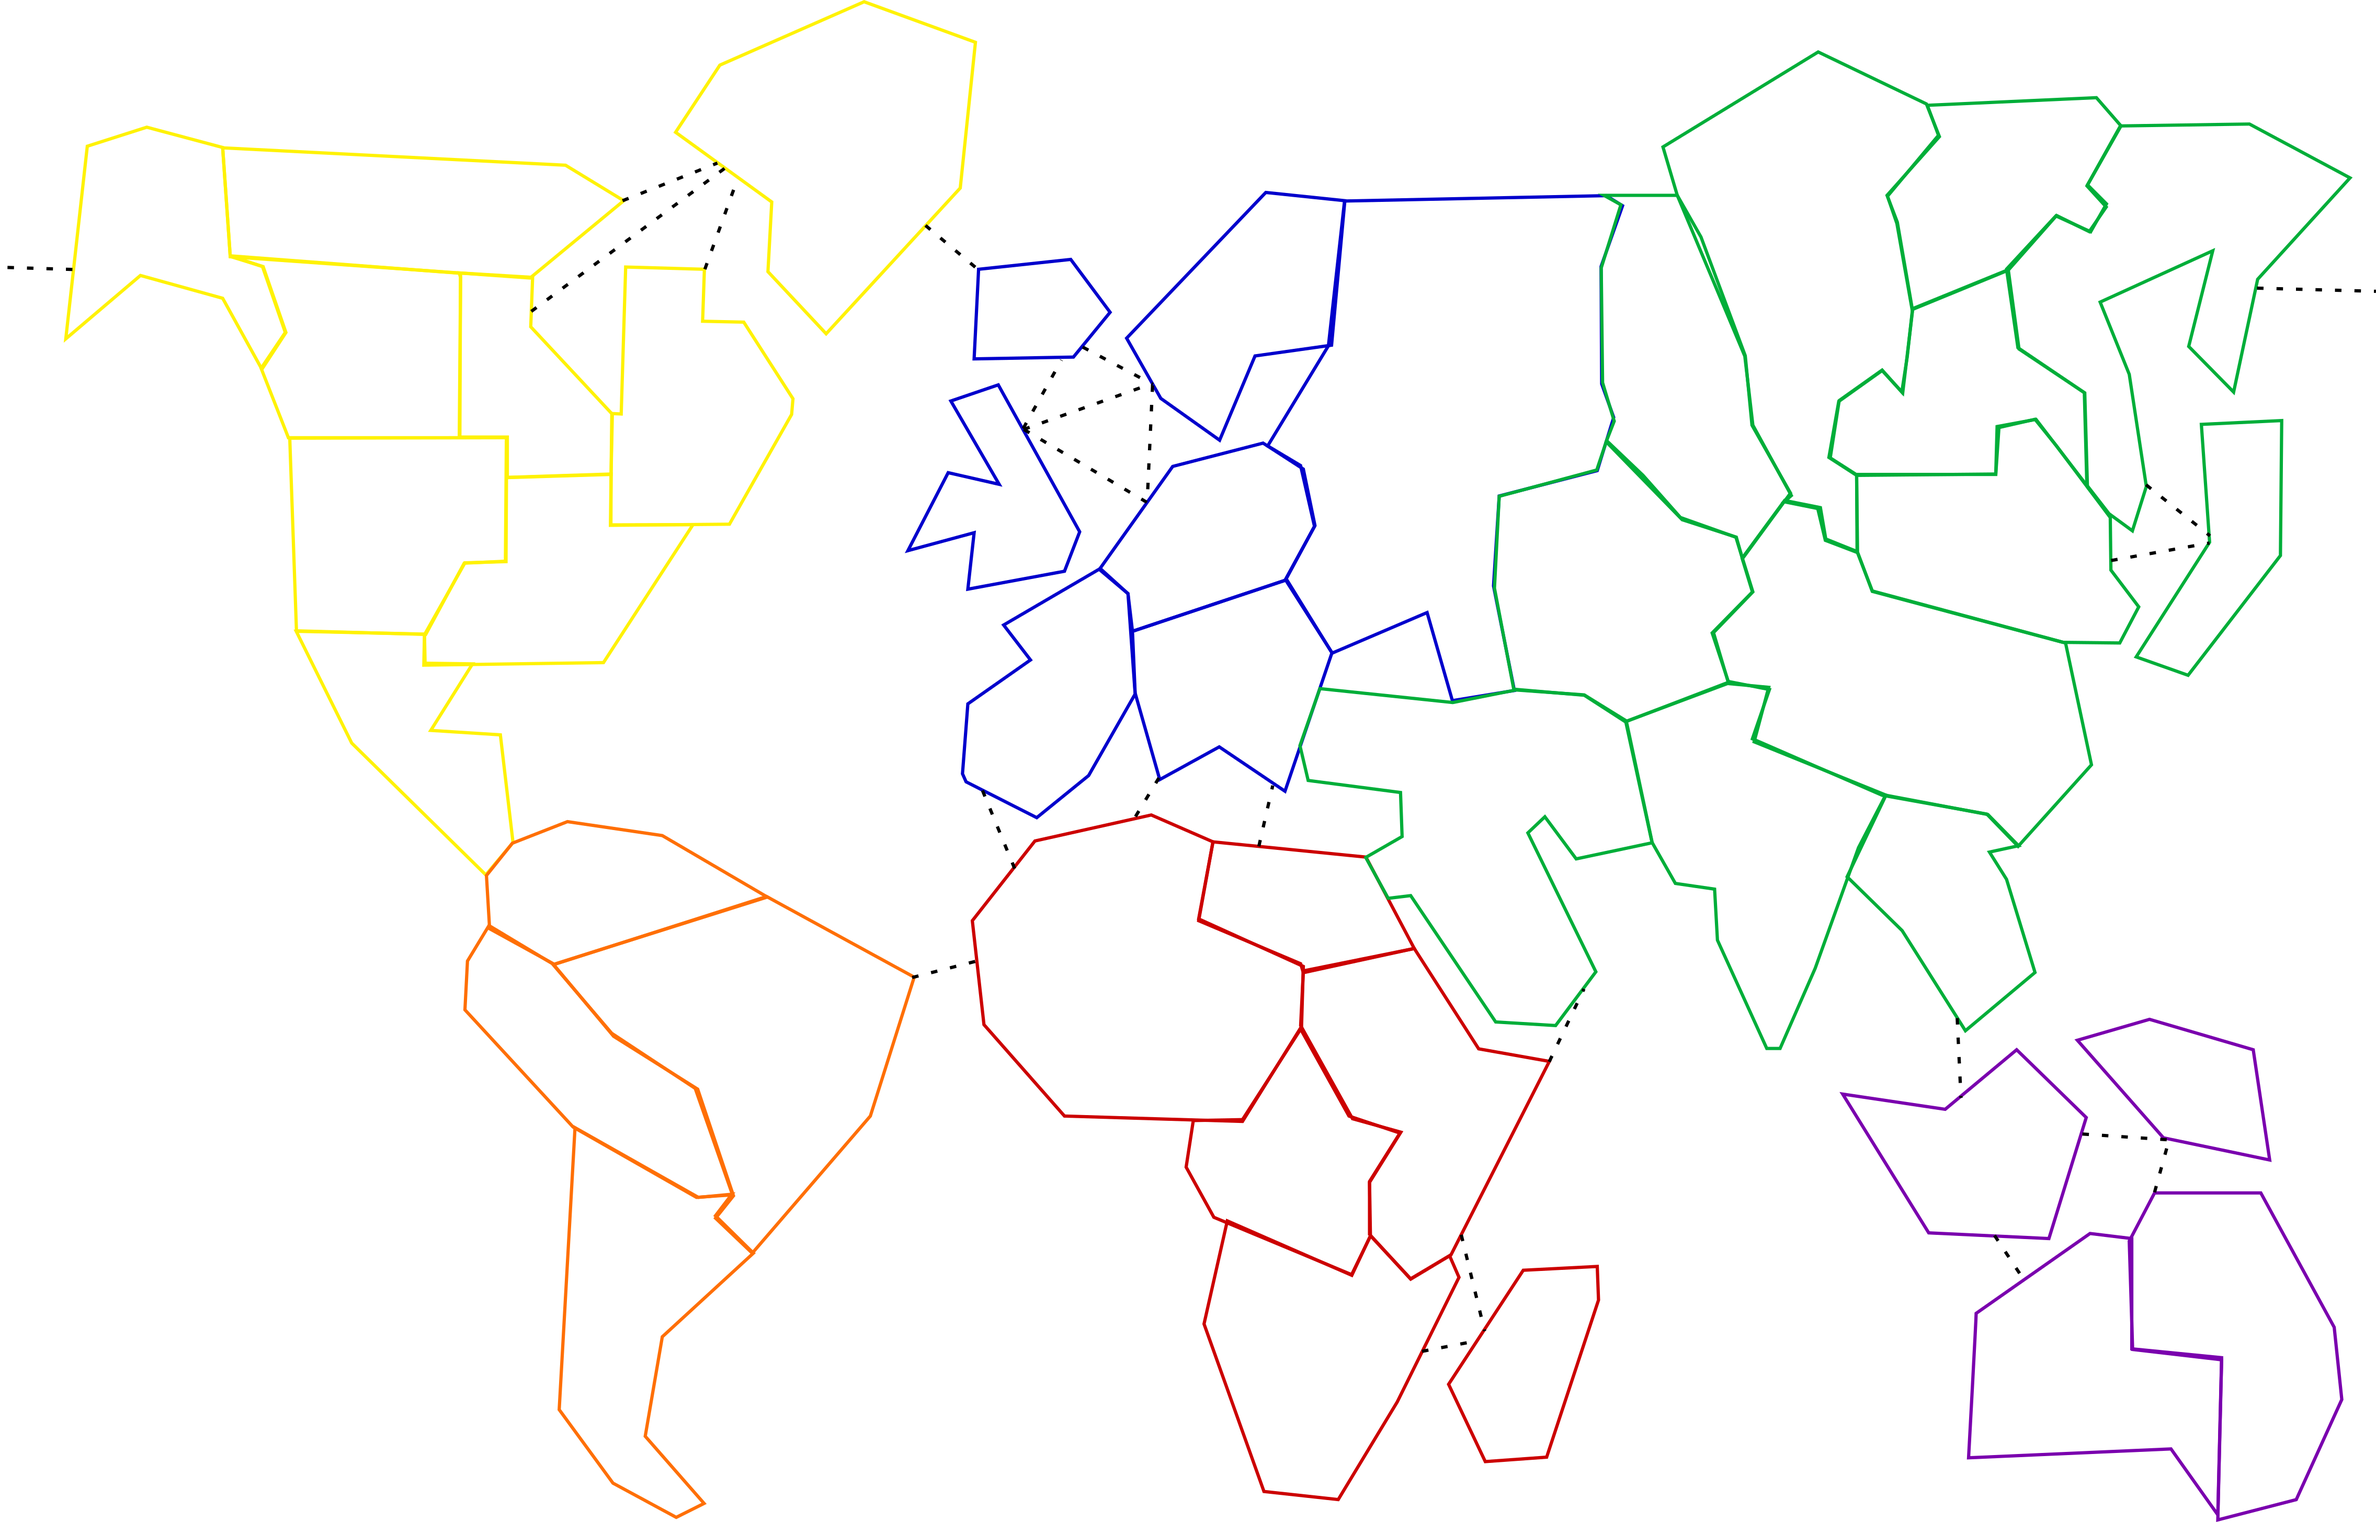
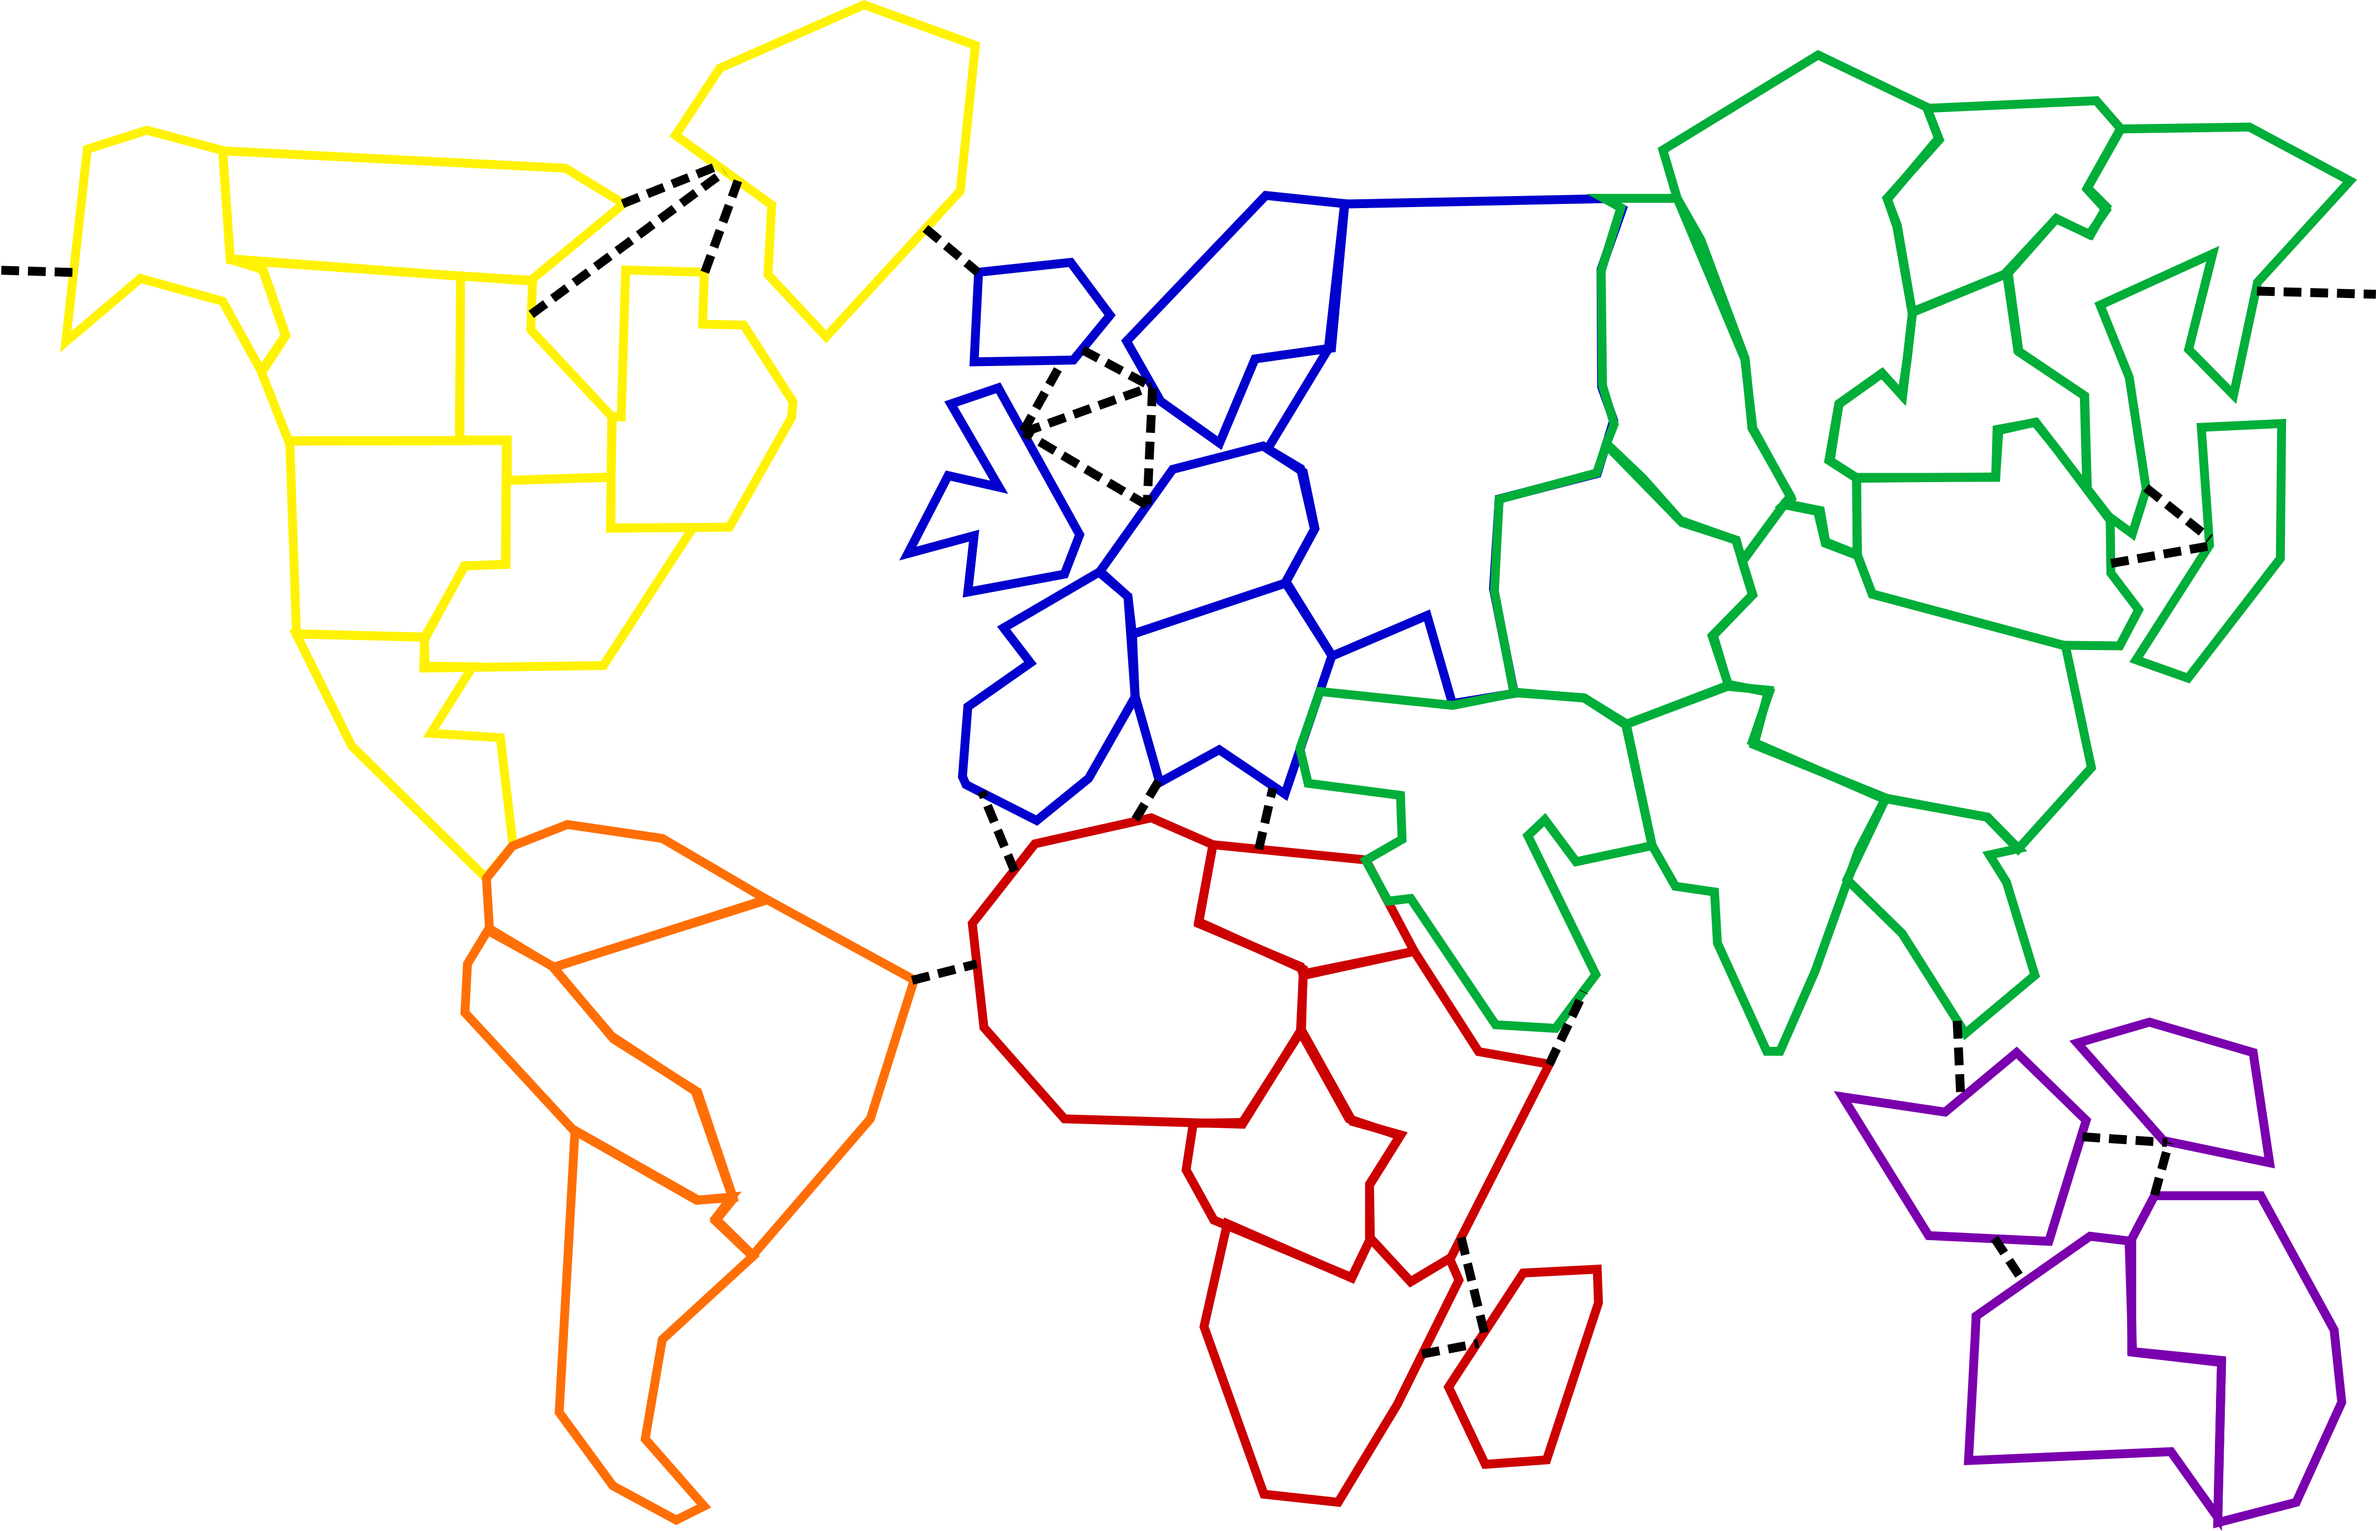
new image but replay gui architecture must be reworked

diff --git a/src/RiskEngine.Replay/GUI/Renderer/TopBarRenderer.cs b/src/RiskEngine.Replay/GUI/Renderer/TopBarRenderer.cs
@@ -6,32 +6,28 @@ namespace RiskEngine.Replay.GUI.Renderer;
 
 public sealed class TopBarRenderer
 {
-    private const int Height = 80;
-    private const int TextY = 30;
+    private const int FontSize = 20;
+
+    private const int ButtonWidth = 120;
+    private const int ButtonHeight = 40;
+    private const int ButtonSpacing = 20;
 
     private readonly Button _previousButton;
     private readonly Button _nextButton;
     private readonly Button _modeButton;
-    
-    public NavigationMode CurrentMode => _mode;
-    
+
     private NavigationMode _mode = NavigationMode.Event;
+
+    public NavigationMode CurrentMode => _mode;
 
     public TopBarRenderer()
     {
-        _modeButton = new Button(
-            new Rectangle(850, 20, 120, 40),
-            CurrentMode.ToString());
-
-        _previousButton = new Button(
-            new Rectangle(1000, 20, 120, 40),
-            "Previous");
-
-        _nextButton = new Button(
-            new Rectangle(1140, 20, 120, 40),
-            "Next");
+        // Position wird später durch das Layout gesetzt
+        _modeButton = new Button(new Rectangle(), _mode.ToString());
+        _previousButton = new Button(new Rectangle(), "Previous");
+        _nextButton = new Button(new Rectangle(), "Next");
     }
-    
+
     private void ChangeMode()
     {
         _mode = _mode switch
@@ -45,8 +41,7 @@ public sealed class TopBarRenderer
 
         _modeButton.Text = _mode.ToString();
     }
-    
-    
+
     public TopBarAction Update()
     {
         if (_modeButton.IsClicked())
@@ -56,39 +51,87 @@ public sealed class TopBarRenderer
         }
 
         if (_previousButton.IsClicked())
-        {
             return TopBarAction.Previous;
-        }
 
         if (_nextButton.IsClicked())
-        {
             return TopBarAction.Next;
-        }
 
         return TopBarAction.None;
     }
 
-    public void Draw(ReplayHeader header, ReplayFrame frame, int frameIndex, int frameCount)
+    public void Draw(
+        Rectangle area,
+        ReplayHeader header,
+        ReplayFrame frame,
+        int frameIndex,
+        int frameCount)
     {
-        // Background
-        Rectangle topBar = new Rectangle(0, 0, Raylib.GetScreenWidth(), Height);
+        // Hintergrund
+        Raylib.DrawRectangleRec(area, Color.DarkGray);
+        Raylib.DrawRectangleLinesEx(area, 2, Color.Black);
 
-        Raylib.DrawRectangleRec(topBar, Color.DarkGray);
+        float right = area.X + area.Width;
+        float centerY = area.Y + area.Height / 2f;
 
-        Raylib.DrawRectangleLinesEx(topBar, 2, Color.Black);
+        int textY = (int)(centerY - FontSize / 2f);
+        float buttonY = centerY - ButtonHeight / 2f;
 
-        // Metadata
-        Raylib.DrawText($"Seed: {header.Seed}", 20, TextY, 20, Color.White);
+        // Metadaten
+        Raylib.DrawText(
+            $"Seed: {header.Seed}",
+            (int)area.X + 20,
+            textY,
+            FontSize,
+            Color.White);
 
-        Raylib.DrawText($"Frame: {frameIndex}/{frameCount}", 180, TextY, 20, Color.White);
+        Raylib.DrawText(
+            $"Frame: {frameIndex}/{frameCount}",
+            (int)area.X + 180,
+            textY,
+            FontSize,
+            Color.White);
 
-        Raylib.DrawText($"Round: {frame.State.CurrentRound}", 380, TextY, 20, Color.White);
+        Raylib.DrawText(
+            $"Round: {frame.State.CurrentRound}",
+            (int)area.X + 380,
+            textY,
+            FontSize,
+            Color.White);
 
-        Raylib.DrawText($"Player: {frame.State.PlayerTurn + 1}", 520, TextY, 20, Color.White);
+        Raylib.DrawText(
+            $"Player: {frame.State.PlayerTurn + 1}",
+            (int)area.X + 520,
+            textY,
+            FontSize,
+            Color.White);
 
-        Raylib.DrawText($"Phase: {frame.State.CurrentPhase}", 650, TextY, 20, Color.White);
+        Raylib.DrawText(
+            $"Phase: {frame.State.CurrentPhase}",
+            (int)area.X + 650,
+            textY,
+            FontSize,
+            Color.White);
 
-        // Buttons
+        // Buttons relativ zum Layout positionieren
+        _modeButton.Bounds = new Rectangle(
+            right - 3 * ButtonWidth - 2 * ButtonSpacing,
+            buttonY,
+            ButtonWidth,
+            ButtonHeight);
+
+        _previousButton.Bounds = new Rectangle(
+            right - 2 * ButtonWidth - ButtonSpacing,
+            buttonY,
+            ButtonWidth,
+            ButtonHeight);
+
+        _nextButton.Bounds = new Rectangle(
+            right - ButtonWidth,
+            buttonY,
+            ButtonWidth,
+            ButtonHeight);
+
+        // Zeichnen
         _modeButton.Draw();
         _previousButton.Draw();
         _nextButton.Draw();

diff --git a/src/RiskEngine.Replay/GUI/ReplayViewer.cs b/src/RiskEngine.Replay/GUI/ReplayViewer.cs
@@ -1,13 +1,14 @@
 using Raylib_cs;
+using RiskEngine.Replay;
+using RiskEngine.Replay.GUI;
 using RiskEngine.Replay.GUI.Renderer;
-
-namespace RiskEngine.Replay.GUI;
 
 public sealed class ReplayViewer
 {
     private readonly ReplayPlayer _player;
     private readonly ReplayRenderer _renderer;
-    private NavigationMode _navigationMode = NavigationMode.Event;
+
+    private ReplayLayout _layout;
 
     public ReplayViewer(Replay replay)
     {
@@ -32,10 +33,23 @@ public sealed class ReplayViewer
     {
         Raylib.InitWindow(1600, 900, "Risk Replay Viewer");
         Raylib.SetTargetFPS(60);
+
+        _layout = ReplayLayoutBuilder.Create();
+
+        _renderer.Initialize();
+    }
+
+    private void Shutdown()
+    {
+        _renderer.Shutdown();
+        Raylib.CloseWindow();
     }
 
     private void Update()
     {
+        // Falls später Fenstergröße geändert werden kann
+        _layout = ReplayLayoutBuilder.Create();
+
         TopBarAction action = _renderer.Update();
 
         switch (action)
@@ -49,13 +63,24 @@ public sealed class ReplayViewer
                 break;
         }
     }
-    private void ExecuteNext()
+
+    private void Draw()
     {
-        switch (_renderer.CurrentMode)
-        {
-            case NavigationMode.Event:
-                _player.NextEvent();
-                break;
+        Raylib.BeginDrawing();
+
+        Raylib.ClearBackground(Color.DarkGray);
+
+        _renderer.Draw(
+            _layout,
+            _player._replay.Header,
+            _player.CurrentFrame,
+            _player.CurrentFrameIndex,
+            _player.FrameCount);
+
+        Raylib.EndDrawing();
+    }
+
+    private void ExecuteNext(){switch (_renderer.CurrentMode){case NavigationMode.Event:_player.NextEvent();break;
 
             case NavigationMode.Phase:
                 _player.NextPhase();
@@ -90,21 +115,5 @@ public sealed class ReplayViewer
                 _player.PreviousRound();
                 break;
         }
-    }
-
-    private void Draw()
-    {
-        Raylib.BeginDrawing();
-
-        Raylib.ClearBackground(Color.DarkGray);
-
-        _renderer.Draw(_player._replay.Header, _player.CurrentFrame, _player.CurrentFrameIndex, _player.FrameCount);
-
-        Raylib.EndDrawing();
-    }
-
-    private void Shutdown()
-    {
-        Raylib.CloseWindow();
     }
 }

diff --git a/src/RiskEngine.Replay/GUI/Renderer/MapRenderer.cs b/src/RiskEngine.Replay/GUI/Renderer/MapRenderer.cs
@@ -1,6 +1,44 @@
-namespace RiskEngine.Replay.GUI.Renderer;
+using System.Numerics;
+using Raylib_cs;
+using RiskEngine.Replay;
 
-public class MapRenderer
+public sealed class MapRenderer
 {
-    
+    private const float MapScale = 0.28f;
+
+    private const int BackgroundPadding = 20;
+    private const int BorderThickness = 2;
+
+    private Texture2D _mapTexture;
+
+    public void Initialize()
+    {
+        _mapTexture = Raylib.LoadTexture("Assets/risk_map_image.png");
+    }
+
+    public void Draw(ReplayFrame frame, Rectangle area)
+    {
+        float mapWidth = _mapTexture.Width * MapScale;
+        float mapHeight = _mapTexture.Height * MapScale;
+
+        // Karte innerhalb des zugewiesenen Bereichs zentrieren
+        float x = area.X + (area.Width - mapWidth) / 2f;
+        float y = area.Y + (area.Height - mapHeight) / 2f;
+
+        Rectangle background = new Rectangle(
+            x - BackgroundPadding,
+            y - BackgroundPadding,
+            mapWidth + BackgroundPadding * 2,
+            mapHeight + BackgroundPadding * 2);
+
+        Raylib.DrawRectangleRec(background, Color.White);
+        Raylib.DrawRectangleLinesEx(background, BorderThickness, Color.Black);
+
+        Raylib.DrawTextureEx(_mapTexture, new Vector2(x, y), 0f, MapScale, Color.White);
+    }
+
+    public void Shutdown()
+    {
+        Raylib.UnloadTexture(_mapTexture);
+    }
 }

diff --git a/src/RiskEngine.Replay/GUI/Renderer/ReplayRenderer.cs b/src/RiskEngine.Replay/GUI/Renderer/ReplayRenderer.cs
@@ -8,21 +8,31 @@ public sealed class ReplayRenderer
     private readonly MapRenderer _map;
 
     public NavigationMode CurrentMode => _topBar.CurrentMode;
-    
+
     public ReplayRenderer()
     {
         _topBar = new TopBarRenderer();
         _map = new MapRenderer();
     }
 
+    public void Initialize()
+    {
+        _map.Initialize();
+    }
+
     public TopBarAction Update()
     {
         return _topBar.Update();
     }
-    
-    public void Draw(ReplayHeader header, ReplayFrame frame, int frameIndex, int frameCount)
+
+    public void Draw(ReplayLayout layout, ReplayHeader header, ReplayFrame frame, int frameIndex, int frameCount)
     {
-        _topBar.Draw(header, frame, frameIndex, frameCount);
-        
+        _topBar.Draw(layout.TopBar, header, frame, frameIndex, frameCount);
+        _map.Draw(frame, layout.Map);
+    }
+
+    public void Shutdown()
+    {
+        _map.Shutdown();
     }
 }

diff --git a/src/RiskEngine.Replay/GUI/ReplayLayoutBuilder.cs b/src/RiskEngine.Replay/GUI/ReplayLayoutBuilder.cs
@@ -1,0 +1,25 @@
+using Raylib_cs;
+
+namespace RiskEngine.Replay.GUI;
+
+public static class ReplayLayoutBuilder
+{
+    public static ReplayLayout Create()
+    {
+        int width = Raylib.GetScreenWidth();
+        int height = Raylib.GetScreenHeight();
+
+        const int topBarHeight = 80;
+        const int playerWidth = 300;
+        const int outerMargin = 20;
+
+        return new ReplayLayout
+        {
+            TopBar = new Rectangle(0, 0, width, topBarHeight),
+
+            Map = new Rectangle(outerMargin, topBarHeight, width - playerWidth - outerMargin * 2, height - topBarHeight - outerMargin),
+
+            PlayerViewer = new Rectangle(width - playerWidth, topBarHeight, playerWidth, height - topBarHeight)
+        };
+    }
+}

diff --git a/src/RiskEngine.Replay/GUI/ReplayLayout.cs b/src/RiskEngine.Replay/GUI/ReplayLayout.cs
@@ -1,0 +1,12 @@
+using Raylib_cs;
+
+namespace RiskEngine.Replay.GUI;
+
+public readonly struct ReplayLayout
+{
+    public Rectangle TopBar { get; init; }
+
+    public Rectangle Map { get; init; }
+
+    public Rectangle PlayerViewer { get; init; }
+}
